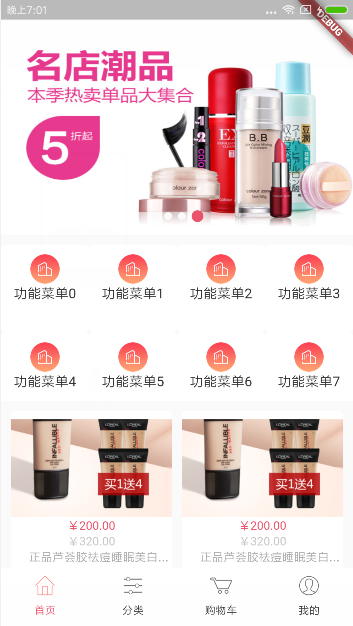
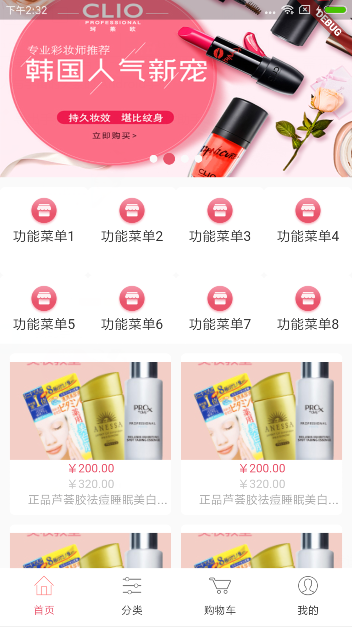
商品详情开发

diff --git a/ydcflutter_app/lib/shopping/GoodsDetailPage.dart b/ydcflutter_app/lib/shopping/GoodsDetailPage.dart
@@ -9,7 +9,8 @@ import 'package:json_annotation/json_annotation.dart';
 import 'dart:convert';
 import 'package:ydcflutter_app/utils/ydc_loading_page.dart';
 import 'package:flutter_swiper/flutter_swiper.dart';
-import 'package:ydcflutter_app/home/bean/PicModel.dart';
+import 'package:flutter_screenutil/flutter_screenutil.dart';
+import 'package:ydcflutter_app/widget/ydc_button.dart';
 
 const String _kGalleryAssetsPackage = 'flutter_gallery_assets';
 
@@ -33,7 +34,7 @@ class _CardData {
 }
 
 final Map<_Page, List<_CardData>> _allPages = <_Page, List<_CardData>>{
-  new _Page(label: ''): <_CardData>[
+  new _Page(label: '商品'): <_CardData>[
     const _CardData(
       title: 'Vintage Bluetooth Radio',
       imageAsset: 'shrine/products/radio.png',
@@ -80,7 +81,42 @@ final Map<_Page, List<_CardData>> _allPages = <_Page, List<_CardData>>{
       imageAssetPackage: _kGalleryAssetsPackage,
     ),
   ],
-  new _Page(label: 'RIGHT'): <_CardData>[
+  new _Page(label: '详情'): <_CardData>[
+    const _CardData(
+      title: 'Beachball',
+      imageAsset: 'shrine/products/beachball.png',
+      imageAssetPackage: _kGalleryAssetsPackage,
+    ),
+    const _CardData(
+      title: 'Dipped Brush',
+      imageAsset: 'shrine/products/brush.png',
+      imageAssetPackage: _kGalleryAssetsPackage,
+    ),
+    const _CardData(
+      title: 'Perfect Goldfish Bowl',
+      imageAsset: 'shrine/products/fish_bowl.png',
+      imageAssetPackage: _kGalleryAssetsPackage,
+    ),
+  ],
+
+  new _Page(label: '评论'): <_CardData>[
+    const _CardData(
+      title: 'Beachball',
+      imageAsset: 'shrine/products/beachball.png',
+      imageAssetPackage: _kGalleryAssetsPackage,
+    ),
+    const _CardData(
+      title: 'Dipped Brush',
+      imageAsset: 'shrine/products/brush.png',
+      imageAssetPackage: _kGalleryAssetsPackage,
+    ),
+    const _CardData(
+      title: 'Perfect Goldfish Bowl',
+      imageAsset: 'shrine/products/fish_bowl.png',
+      imageAssetPackage: _kGalleryAssetsPackage,
+    ),
+  ],
+  new _Page(label: '推荐'): <_CardData>[
     const _CardData(
       title: 'Beachball',
       imageAsset: 'shrine/products/beachball.png',
@@ -142,14 +178,6 @@ class _CardDataItem extends StatelessWidget {
         ),
       ),
     );
-  }
-}
-
-class TabsDemo extends StatelessWidget {
-  static const String routeName = '/material/tabs';
-
-  @override
-  Widget build(BuildContext context) {
   }
 }
 
@@ -253,6 +281,17 @@ class _GoodsDetailPageState extends State<GoodsDetailPage> {
   @override
   Widget build(BuildContext context) {
 
+    // 建议在第一次 build 的时候就进行初始化，这样接下来就可以放心使用了。
+
+    // 方式一：默认设置宽度1080px，高度1920px
+    ScreenUtil.instance = ScreenUtil.getInstance()..init(context);
+    // 方式二：设置宽度750px，高度1334px
+    ScreenUtil.instance = ScreenUtil(width: 750, height: 1334)..init(context);
+    // 方式三：设置宽度750px，高度1334px，根据系统字体进行缩放
+    ScreenUtil.instance = ScreenUtil(width: 750, height: 1334, allowFontScaling: true)..init(context);
+
+
+
     return new DefaultTabController(
       length: _allPages.length,
       child: new Scaffold(
@@ -264,12 +303,18 @@ class _GoodsDetailPageState extends State<GoodsDetailPage> {
                 NestedScrollView.sliverOverlapAbsorberHandleFor(context),
                 child: new SliverAppBar(
                   pinned: true,
-                  expandedHeight: 340.0,
+                  expandedHeight: 380.0,
                   // 这个高度必须比flexibleSpace高度大
                   forceElevated: innerBoxIsScrolled,
                   bottom: PreferredSize(
                       child: new Container(
                         child: new TabBar(
+                          indicatorColor: Colors.white,//选中下划线颜色,如果使用了indicator这里设置无效
+                          labelColor: Colors.white,
+                          //unselectedLabelColor: Colors.black,
+                          labelStyle: TextStyle(fontSize: 16),
+                          unselectedLabelStyle:TextStyle(fontSize: 14) ,
+                          indicatorWeight: 3,
                           tabs: _allPages.keys
                               .map(
                                 (_Page page) => new Tab(
@@ -320,7 +365,7 @@ class _GoodsDetailPageState extends State<GoodsDetailPage> {
                         ),
                         new Container(
                             width: MediaQuery.of(context).size.width,
-                            height: 154.0,
+                            height: 180.0,
                             margin: EdgeInsets.only(bottom: 10.0),
                             child:
                             new Swiper(
@@ -363,19 +408,19 @@ class _GoodsDetailPageState extends State<GoodsDetailPage> {
                                 new Padding(
                                     padding: const EdgeInsets.only(left: 10.0,top: 0.0),
                                     child: new Text("￥200.00",
-                                      style: new TextStyle(fontSize: 12.0,
+                                      style: new TextStyle(fontSize: 16.0,
                                           color:const Color(0xFFe9546b)),)),
                                 new Padding(
                                     padding: const EdgeInsets.only(left: 10.0,top: 0.0),
                                     child: new Text("￥320.00",
                                       style: new TextStyle(fontSize: 12.0,
-                                          color:const Color(0xFFc8c8c8)),)),
+                                          color:const Color(0xFFaaaaaa)),)),
 
                                 new Padding(
-                                    padding: const EdgeInsets.only(left: 15.0,top: 0.0),
+                                    padding: const EdgeInsets.only(left: 12.0,top: 0.0),
                                     child: new Text("正品芦荟胶祛痘睡眠美白面膜泥粉免洗女男补水保湿面霜春季护肤品",
-                                      style: new TextStyle(fontSize: 12.0,
-                                          color:const Color(0xFFaaaaaa)),)),
+                                      style: new TextStyle(fontSize: 16.0,
+                                          color:const Color(0xFF333333)),)),
 
                               ],)
 
@@ -388,10 +433,12 @@ class _GoodsDetailPageState extends State<GoodsDetailPage> {
               ),
             ];
           },
-          body: new TabBarView(
-            children: _allPages.keys.map((_Page page) {
+          body:new Stack(
+              children: <Widget>[
+                new TabBarView(
+                children: _allPages.keys.map((_Page page) {
               //SafeArea 适配刘海屏的一个widget
-              return new SafeArea(
+                return new SafeArea(
                 top: false,
                 bottom: false,
                 child: new Builder(
@@ -433,7 +480,143 @@ class _GoodsDetailPageState extends State<GoodsDetailPage> {
                 ),
               );
             }).toList(),
-          ),
+          ), Positioned(
+                  width: ScreenUtil().setWidth(750),
+                  height: ScreenUtil().setHeight(110),
+                  bottom: 0,
+                  child: Container(
+                    decoration: BoxDecoration(
+                        border: Border(
+                            top: BorderSide(color: Color(0xFFe5e5e5), width: 1)),
+                        color: Colors.white),
+                    child: Row(
+                      children: <Widget>[
+                        Container(
+                            padding: EdgeInsets.only(top: ScreenUtil().setHeight(10)),
+                            width: 60,
+                            height: ScreenUtil().setHeight(88),
+                            child:
+                            new InkWell(
+                              onTap: () {
+                                Fluttertoast.showToast(
+                                    msg: "正在建设中...",
+                                    toastLength: Toast.LENGTH_SHORT,
+                                    gravity: ToastGravity.BOTTOM,
+                                    timeInSecForIos:1
+//            backgroundColor: Color(0xe74c3c),
+//            textColor: Color(0xffffff)
+
+                                );
+                              },
+                              child:Column(
+                                children: <Widget>[
+                                  Icon(
+                                    Icons.message,
+                                    size: 15,
+                                  ),
+                                  Text('联系客服',  style: new TextStyle(fontSize: 12.0,
+                                      color:const Color(0xFF666666)))
+                                ],
+                              ),
+                            )),
+                        Container(
+                            padding: EdgeInsets.only(top: ScreenUtil().setHeight(10)),
+                            width: 50,
+                            height: ScreenUtil().setHeight(88),
+                            child:
+                            new InkWell(
+                              onTap: () {
+                                Fluttertoast.showToast(
+                                    msg: "正在建设中...",
+                                    toastLength: Toast.LENGTH_SHORT,
+                                    gravity: ToastGravity.BOTTOM,
+                                    timeInSecForIos:1
+//            backgroundColor: Color(0xe74c3c),
+//            textColor: Color(0xffffff)
+
+                                );
+                              },
+                              child:Column(
+                                children: <Widget>[
+                                  Icon(
+                                    Icons.store,
+                                    size: 15,
+                                  ),
+                                  Text('店铺',  style: new TextStyle(fontSize: 12.0,
+                                      color:const Color(0xFF666666)))
+                                ],
+                              ),
+                            )),
+                        Container(
+                          padding: EdgeInsets.only(top: ScreenUtil().setHeight(10)),
+                          width: 50,
+                          height: ScreenUtil().setHeight(88),
+                          child:
+                            new InkWell(
+                            onTap: () {
+                              Fluttertoast.showToast(
+                                  msg: "正在建设中...",
+                                  toastLength: Toast.LENGTH_SHORT,
+                                  gravity: ToastGravity.BOTTOM,
+                                  timeInSecForIos:1
+//            backgroundColor: Color(0xe74c3c),
+//            textColor: Color(0xffffff)
+
+                              );
+                            },
+                              child:Column(
+                             children: <Widget>[
+                              Icon(
+                                Icons.shopping_cart,
+                                size: 15,
+                              ),
+                              Text('购物车',   style: new TextStyle(fontSize: 12.0,
+                                  color:const Color(0xFF666666)))
+                            ],
+                          ),
+                        )),
+                        Expanded(
+                          flex: 1,
+                          child: YDCButton(
+                            color: Color.fromRGBO(253, 1, 0, 0.9),
+                            text: "加入购物车",
+                            cb: (){
+                              Fluttertoast.showToast(
+                                  msg: "正在建设中...",
+                                  toastLength: Toast.LENGTH_SHORT,
+                                  gravity: ToastGravity.BOTTOM,
+                                  timeInSecForIos:1
+//            backgroundColor: Color(0xe74c3c),
+//            textColor: Color(0xffffff)
+
+                              );
+                            },
+                          ),
+                        ),
+                        Expanded(
+                          flex: 1,
+                          child: YDCButton(
+                            color: Color.fromRGBO(255, 165, 0, 0.9),
+                            text: "立即购买",
+                            cb: (){
+                              Fluttertoast.showToast(
+                                  msg: "正在建设中...",
+                                  toastLength: Toast.LENGTH_SHORT,
+                                  gravity: ToastGravity.BOTTOM,
+                                  timeInSecForIos:1
+//            backgroundColor: Color(0xe74c3c),
+//            textColor: Color(0xffffff)
+
+                              );
+                            },
+                          ),
+                        )
+                      ],
+                    ),
+                  ),
+                )
+
+              ])
         ),
       ),
     );

diff --git a/ydcflutter_app/lib/home/HomePage.dart b/ydcflutter_app/lib/home/HomePage.dart
@@ -52,15 +52,15 @@ class _HomePageState extends State<HomePage> {
       List<PicModel> fList = new List();
       for(int i=0;i<10;i++){
         var p = PicModel();
-        p.imageUrl="https://img.alicdn.com/tps/TB1oHwXMVXXXXXnXVXXXXXXXXXX-570-400.jpg";
-        p.name="功能菜单"+i.toString();
+        p.imageUrl="https://img.alicdn.com/tps/TB1G5oxMVXXXXbFXFXXXXXXXXXX-190-200.jpg";
+        p.name="功能菜单"+(i+1).toString();
         pList.add(p);
       }
 
       for(int i=0;i<10;i++){
         var p = PicModel();
         p.imageUrl="https://img.alicdn.com/tps/TB1oHwXMVXXXXXnXVXXXXXXXXXX-570-400.jpg";
-        p.name="功能菜单"+i.toString();
+        p.name="功能菜单"+(i+1).toString();
         fList.add(p);
       }
       picList=pList;
@@ -242,7 +242,7 @@ class _HomePageState extends State<HomePage> {
                 children: <Widget>[
                   new Padding(
                       padding: const EdgeInsets.only(left: 0.0,top: 0.0),
-                      child: new Image.asset("static/images/zhengzu_icon.png",
+                      child: new Image.asset("static/images/store.png",
                         width: 30.0,
                         height: 30.0,)),
                   new Padding(
@@ -282,7 +282,7 @@ class _HomePageState extends State<HomePage> {
               new Padding(
                   padding: const EdgeInsets.only(left: 0.0,top: 0.0,
                       bottom: 0.0),
-                  child:  new Image.network("https://img.alicdn.com/imgextra/i2/O1CN01suz9u92HRpmDbT7TJ_!!0-juitemmedia.jpg_270x270.jpg",
+                  child:  new Image.network("https://img.alicdn.com/tps/TB1G5oxMVXXXXbFXFXXXXXXXXXX-190-200.jpg",
                       alignment: Alignment.bottomRight,
                       colorBlendMode: BlendMode.colorBurn,
                       fit: BoxFit.cover, // 填充拉伸裁剪

diff --git a/ydcflutter_app/lib/widget/ydc_button.dart b/ydcflutter_app/lib/widget/ydc_button.dart
@@ -1,0 +1,28 @@
+import 'package:flutter/material.dart';
+import 'package:flutter_screenutil/flutter_screenutil.dart';
+class YDCButton extends StatelessWidget {
+
+  final Color color;
+  final String text;
+  final Object cb;
+  YDCButton({Key key,this.color=Colors.black,this.text='按钮',this.cb=null}) : super(key: key);
+
+  @override
+  Widget build(BuildContext context) {
+    return InkWell(
+      onTap:this.cb,
+      child: Container(
+        margin: EdgeInsets.all(5),
+        padding: EdgeInsets.all(5),
+        height: ScreenUtil().setHeight(68),
+        width: double.infinity,
+        decoration: BoxDecoration(
+            color: color,
+            borderRadius: BorderRadius.circular(10)),
+        child: Center(
+          child: Text(text, style: TextStyle(color: Colors.white)),
+        ),
+      ),
+    );
+  }
+}

diff --git a/README.md b/README.md
@@ -14,6 +14,7 @@
 
 ![](https://github.com/dechengyang/ydc_flutter_app/blob/master/picture/page/login_page.png) ![](https://github.com/dechengyang/ydc_flutter_app/blob/master/picture/page/my_page.png)
 ![](https://github.com/dechengyang/ydc_flutter_app/blob/master/picture/page/register_page.png) ![](https://github.com/dechengyang/ydc_flutter_app/blob/master/picture/page/home_page.png)
+![](https://github.com/dechengyang/ydc_flutter_app/blob/master/picture/page/goodsdetail_page.png)
 
 #### 如果对你有所帮助,请扫描下方的二维码随意打赏(生活不易，要买奶粉呀)，要是能打赏个 10.24 :monkey_face:就太:thumbsup:了。您的支持将鼓励我继续创作:octocat:
 
